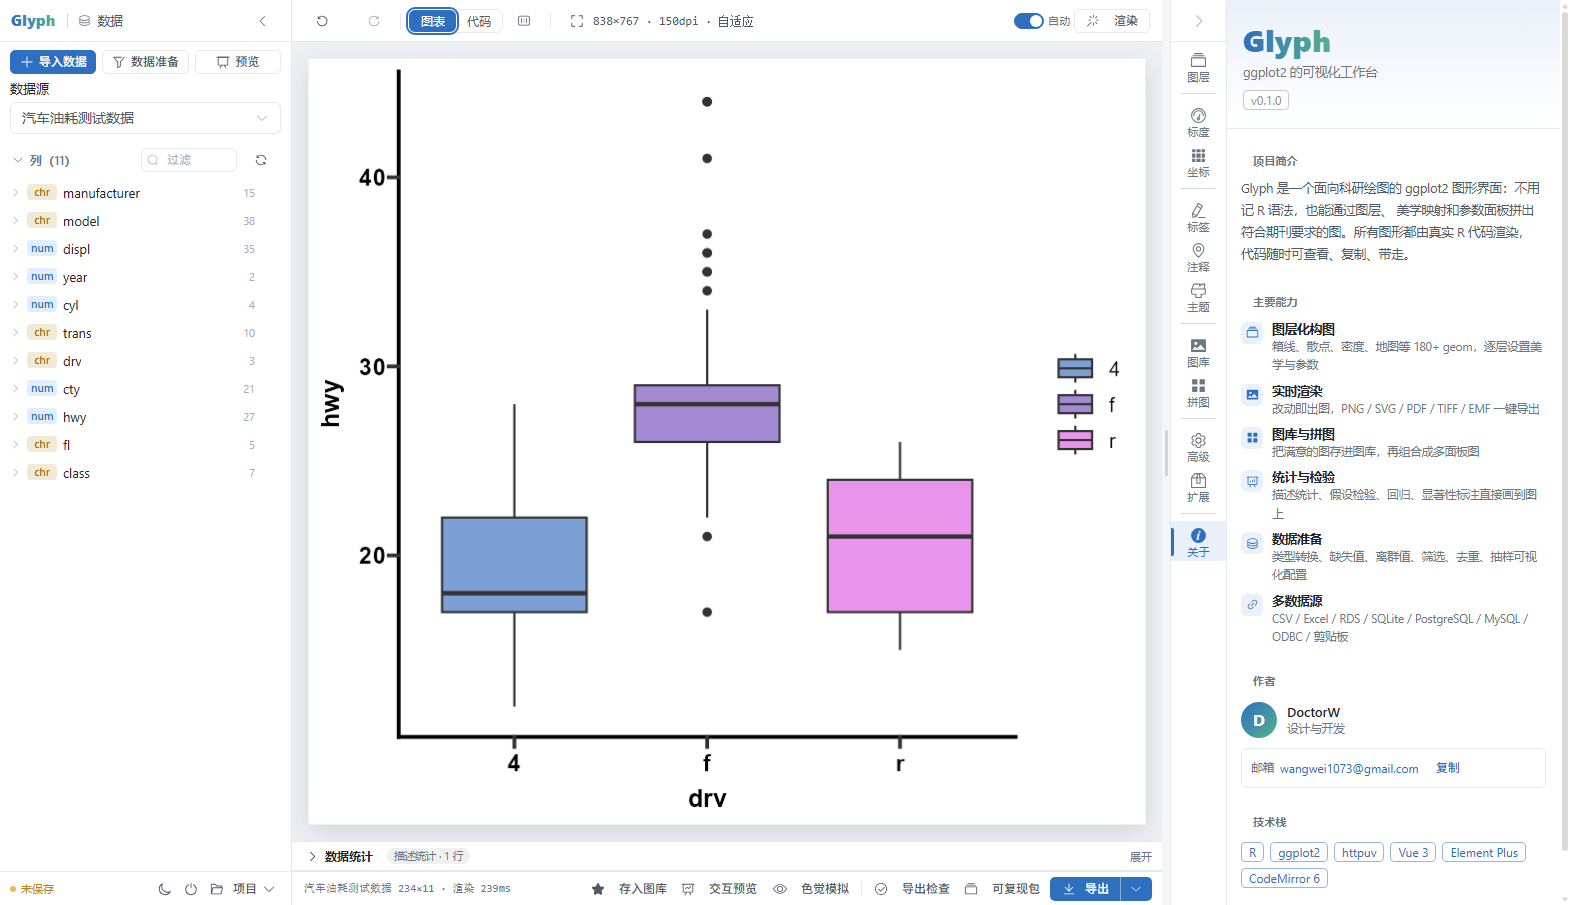
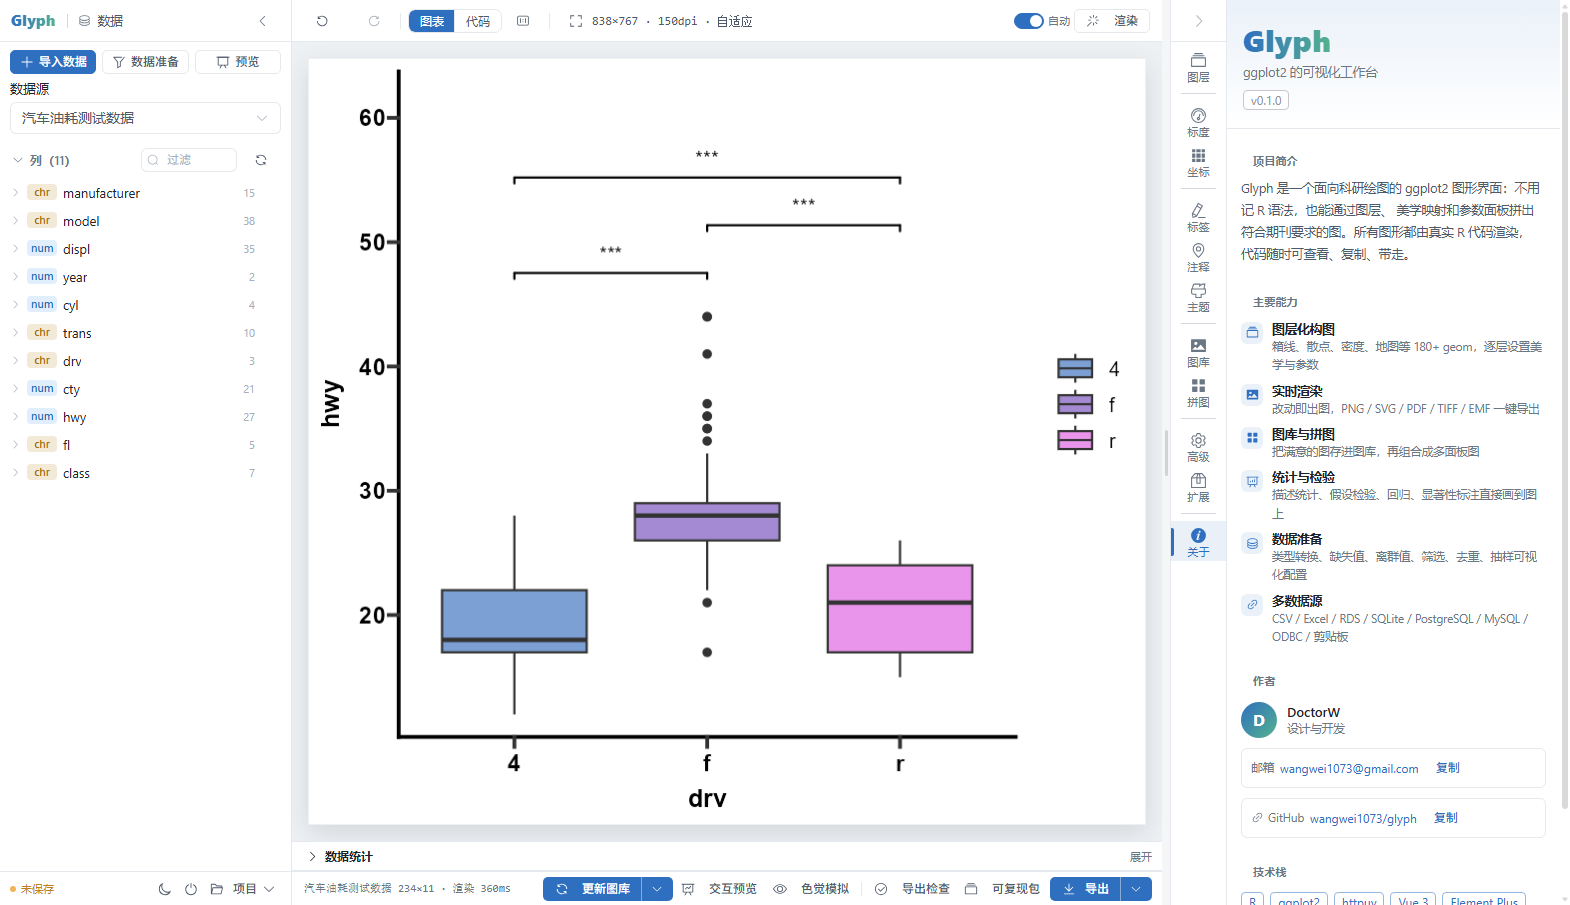
关于页与 README 增加 GitHub 仓库地址
- 关于页新增 GitHub 行：可点击跳转 + 一键复制
- README 反馈章节补充仓库链接
- 更新关于页截图

diff --git a/frontend/src/components/AboutPanel.vue b/frontend/src/components/AboutPanel.vue
@@ -6,11 +6,21 @@ import { ElMessage } from 'element-plus'
 const VERSION = '0.1.0'
 const AUTHOR = 'DoctorW'
 const EMAIL = 'wangwei1073@gmail.com'
+const REPO = 'https://github.com/wangwei1073/glyph'
 
 async function copyEmail() {
   try {
     await navigator.clipboard.writeText(EMAIL)
     ElMessage.success('邮箱已复制')
+  } catch {
+    ElMessage.warning('复制失败，请手动选择')
+  }
+}
+
+async function copyRepo() {
+  try {
+    await navigator.clipboard.writeText(REPO)
+    ElMessage.success('仓库地址已复制')
   } catch {
     ElMessage.warning('复制失败，请手动选择')
   }
@@ -75,6 +85,12 @@ const highlights = [
         <span class="ab-k">邮箱</span>
         <a class="ab-mail" :href="`mailto:${EMAIL}`">{{ EMAIL }}</a>
         <el-button size="small" text type="primary" @click="copyEmail">复制</el-button>
+      </div>
+      <div class="ab-row">
+        <el-icon class="ab-gh-ico"><Link /></el-icon>
+        <span class="ab-k">GitHub</span>
+        <a class="ab-mail" :href="REPO" target="_blank" rel="noopener">wangwei1073/glyph</a>
+        <el-button size="small" text type="primary" @click="copyRepo">复制</el-button>
       </div>
     </div>
 
@@ -156,6 +172,7 @@ const highlights = [
   background: var(--gg-panel);
 }
 .ab-k { font-size: 11.5px; color: var(--gg-text-3); flex-shrink: 0; }
+.ab-gh-ico { flex-shrink: 0; font-size: 13px; color: var(--gg-text-3); margin-right: -2px; }
 .ab-mail {
   font-size: 12px; color: var(--gg-brand); text-decoration: none;
   min-width: 0; overflow: hidden; text-overflow: ellipsis; white-space: nowrap;

diff --git a/README.md b/README.md
@@ -262,5 +262,6 @@ Glyph 通过注册表自动发现扩展包提供的 geom、主题与调色板：
 
 ## 反馈
 
+- 仓库：<https://github.com/wangwei1073/glyph>
 - 邮箱：wangwei1073@gmail.com
 - Issue / PR 欢迎提交
